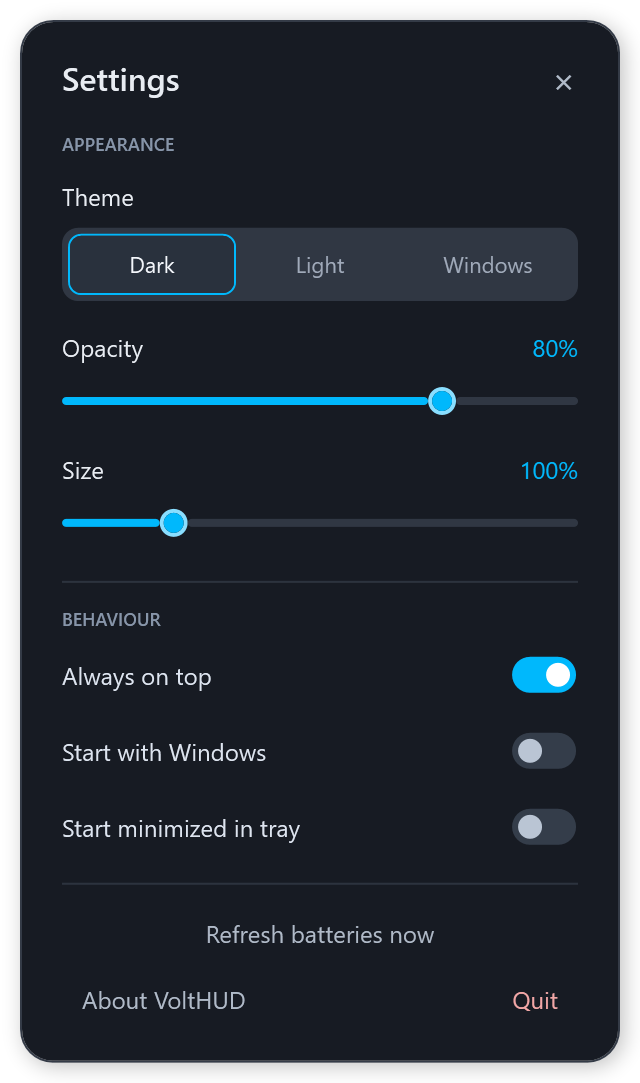
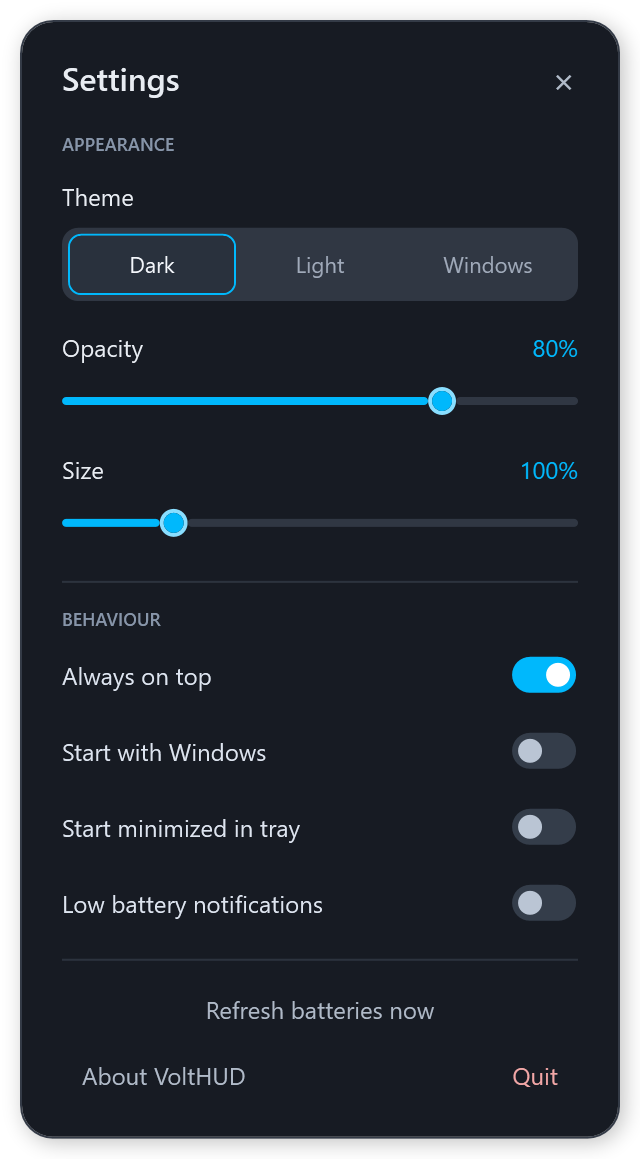
Show current settings menu preview in README

diff --git a/README.md b/README.md
@@ -34,6 +34,12 @@ Download **VoltHUD-windows.zip** from the [0.1.1 preview release](https://github
 
 Blue accents use `#00B8FC`. A low numeric battery level uses an orange accent. Unknown battery levels display a dash. Coarse levels such as “Good” remain words; voltage-derived levels are explicitly labelled as estimates.
 
+### Settings preview
+
+<img src="assets/settings-preview.png" alt="VoltHUD settings showing theme, opacity, size, startup and low battery notification controls" width="320">
+
+Open **⋯** to adjust the widget's appearance, startup behaviour and low battery notifications. The preview shows sample settings in the Dark theme.
+
 ## Compatibility
 
 VoltHUD discovers battery capabilities instead of maintaining a hardcoded list of supported model names. It supports connected Bluetooth devices from any brand and peripherals using the battery interfaces listed below. Compatibility depends on each device and Windows; some devices use proprietary formats that are not implemented or expose no usable battery information.
